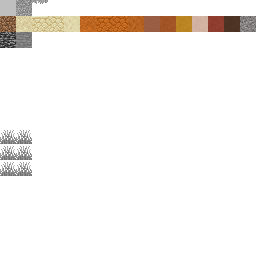
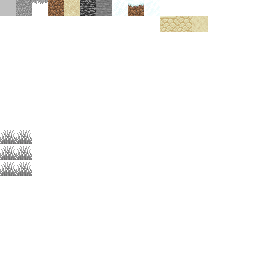
FEAT: 기본 biome 구성 완료 | 인스턴스 테스팅

Changed region(s): [[0.0, 0.0, 1.0, 0.1875]]

diff --git a/voxen/Structure.h b/voxen/Structure.h
@@ -16,52 +16,29 @@ enum DIR : uint8_t {
 enum BLOCK_TYPE : uint8_t {
 	B_AIR = 0,
 	B_WATER = 1,
-	B_GRASS = 2,
-	B_DIRT = 3,
-	B_STONE = 4,
-	B_SAND = 5,
-	B_BEDROCK = 6,
-	B_SANDSTONE = 7,
-	B_REDSAND = 8,
-	B_REDSANDSTONE = 9,
-	B_TERRACOTTA = 10,
-	B_TERRACOTTA_ORANGE = 11,
-	B_TERRACOTTA_YELLOW = 12,
-	B_TERRACOTTA_WHITE = 13,
-	B_TERRACOTTA_RED = 14,
-	B_TERRACOTTA_BROWN = 15,
-	B_GRAVEL = 16,
+	B_BEDROCK = 2,
+	B_GRASS = 3,
+	B_SNOW_GRASS = 4,
+	B_DIRT = 5,
+	B_STONE = 6,
+	B_SAND = 7,
+	B_SNOW = 8,
 };
 
 enum TEXTURE_INDEX : uint8_t {
+	// block
 	T_WATER = 0,
 	T_GRASS_TOP = 1,
 	T_GRASS_OVERLAY = 2,
+	T_DIRT = 3,
+	T_SAND = 4,
+	T_BEDROCK = 5,
+	T_STONE = 6,
+	T_SNOW_GRASS_TOP = 7,
+	T_SNOW_GRASS_SIDE = 8,
+	T_SNOW = 9,
 
-
-	T_DIRT = 16,
-	T_SAND = 17,
-	T_SANDSTONE = 18,
-	T_SANDSTONE_BOTTOM = 19,
-	T_SANDSTONE_TOP = 20,
-
-
-	T_REDSAND = 21,
-	T_REDSANDSTONE = 22,
-	T_REDSANDSTONE_BOTTOM = 23,
-	T_REDSANDSTONE_TOP = 24,
-	T_TERRACOTTA = 25,
-	T_TERRACOTTA_ORANGE = 26,
-	T_TERRACOTTA_YELLOW = 27,
-	T_TERRACOTTA_WHITE = 28,
-	T_TERRACOTTA_RED = 29,
-	T_TERRACOTTA_BROWN = 30,
-	T_GRAVEL = 31,
-
-
-	T_BEDROCK = 32,
-	T_STONE = 33,
-
+	// instance
 	T_SHORT_GRASS = 128
 };
 

diff --git a/voxen/Chunk.cpp b/voxen/Chunk.cpp
@@ -106,14 +106,19 @@ void Chunk::InitChunkData()
 void Chunk::InitInstanceInfoData()
 {
 	for (int x = 0; x < CHUNK_SIZE; ++x) {
-		for (int y = 0; y < CHUNK_SIZE; ++y) {
-			for (int z = 0; z < CHUNK_SIZE; ++z) {
-				/*
-				// instance testing
+		for (int z = 0; z < CHUNK_SIZE; ++z) {
+			int worldX = (int)m_offsetPosition.x + x - 1;
+			int worldZ = (int)m_offsetPosition.z + z - 1;
+
+			float noise = Terrain::PerlinFbm(worldX / 8.0f, worldZ / 8.0f, 2.0f, 1);
+
+			for (int y = 0; y < CHUNK_SIZE; ++y) {
+				if (noise < 0.25f)
+					continue;
+
 				if ((m_blocks[x + 1][y + 1][z + 1].GetType() == BLOCK_TYPE::B_AIR ||
 						m_blocks[x + 1][y + 1][z + 1].GetType() == BLOCK_TYPE::B_WATER) &&
-					Block::IsOpaqua(m_blocks[x + 1][y][z + 1].GetType()) && x % 3 == 0 &&
-					z % 3 == 0) {
+					Block::IsOpaqua(m_blocks[x + 1][y][z + 1].GetType())) {
 					Instance instance;
 
 					instance.SetTextureIndex(TEXTURE_INDEX::T_SHORT_GRASS);
@@ -123,7 +128,7 @@ void Chunk::InitInstanceInfoData()
 
 					m_instanceMap[std::make_tuple(x, y, z)] = instance;
 				}
-				*/
+				
 			}
 		}
 	}
